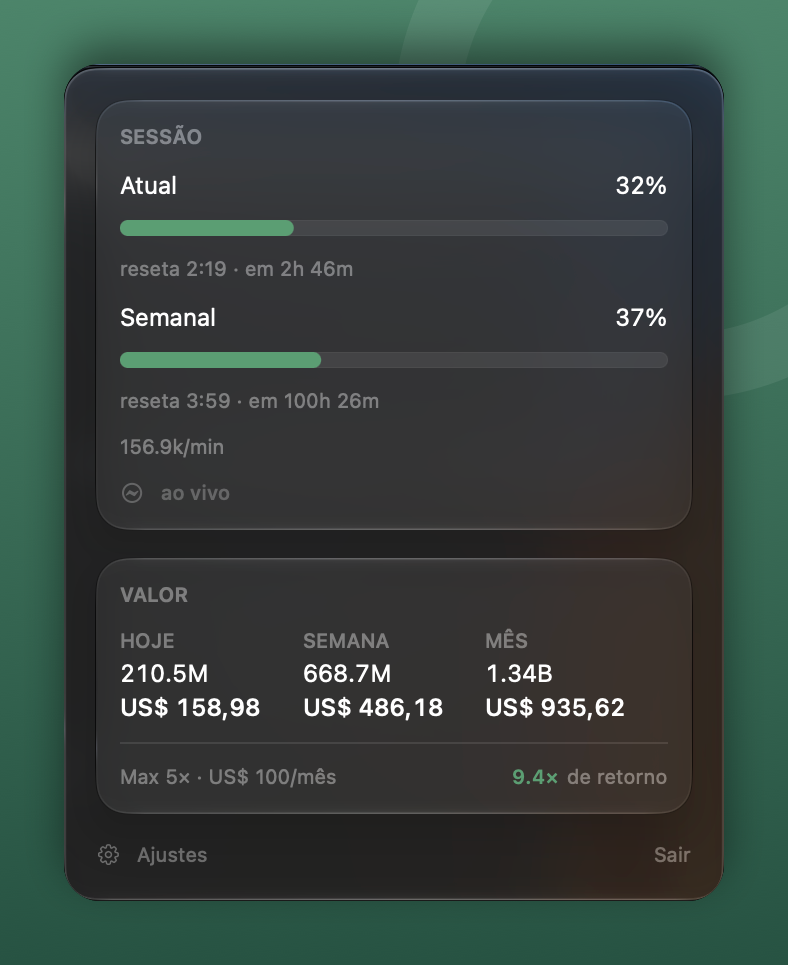
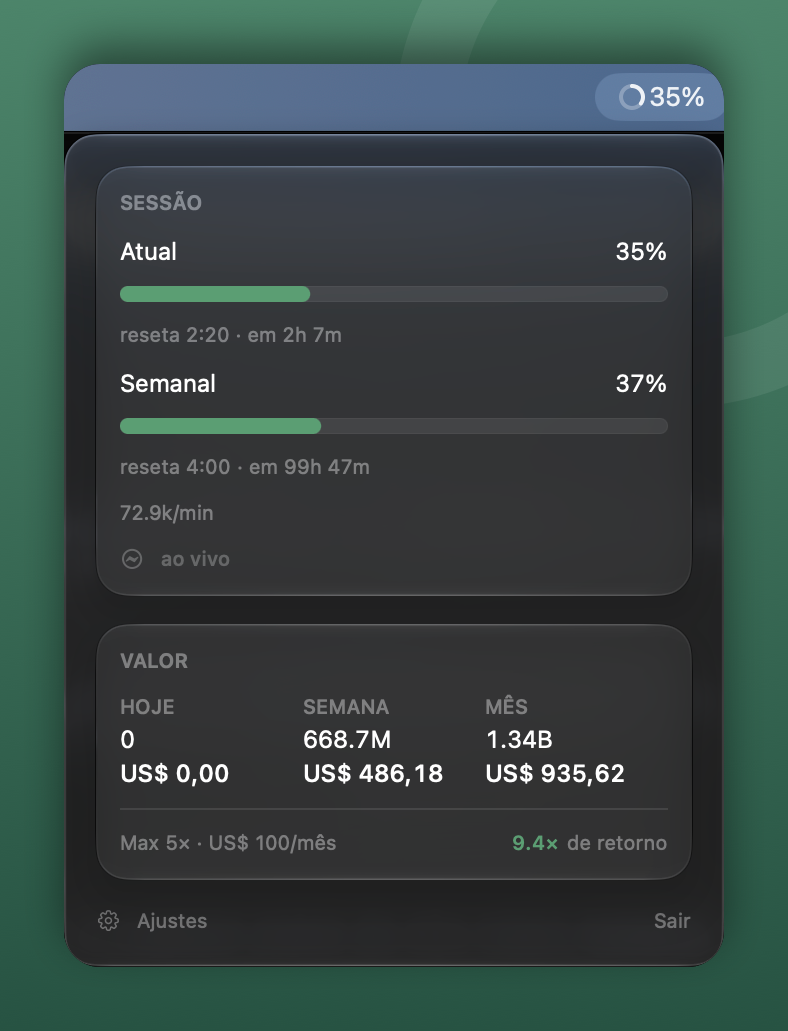
docs: recaptura do painel, com a barra de menu junto e sem o cast do wallpaper
A captura anterior pegava o wallpaper alaranjado atraves do material translucido:
a metade direita do painel puxava para o marrom enquanto a esquerda ficava
neutra. Medido na nova, as duas metades batem — (56,58,60) contra (52,54,56).

Ela tambem inclui a barra de menu, entao o anel aparece em uso e nao so o painel.

diff --git a/README.md b/README.md
@@ -9,7 +9,7 @@ consumido — e, principalmente, **de onde esse número veio**.
 ◐ 81%   ← quanto da janela de 5h já foi gasto, ao vivo
 ```
 
-<img src="docs/art/panel.png" alt="Painel do app: sessão de 5h e janela semanal com horário de reset, e o valor equivalente em API de hoje, da semana e do mês" width="420">
+<img src="docs/art/panel.png" alt="O app na barra de menu mostrando o anel de consumo e 35%, com o painel aberto abaixo: sessão de 5h e janela semanal com horário de reset, e o valor equivalente em API de hoje, da semana e do mês" width="420">
 
 ## Por que ele existe
 
